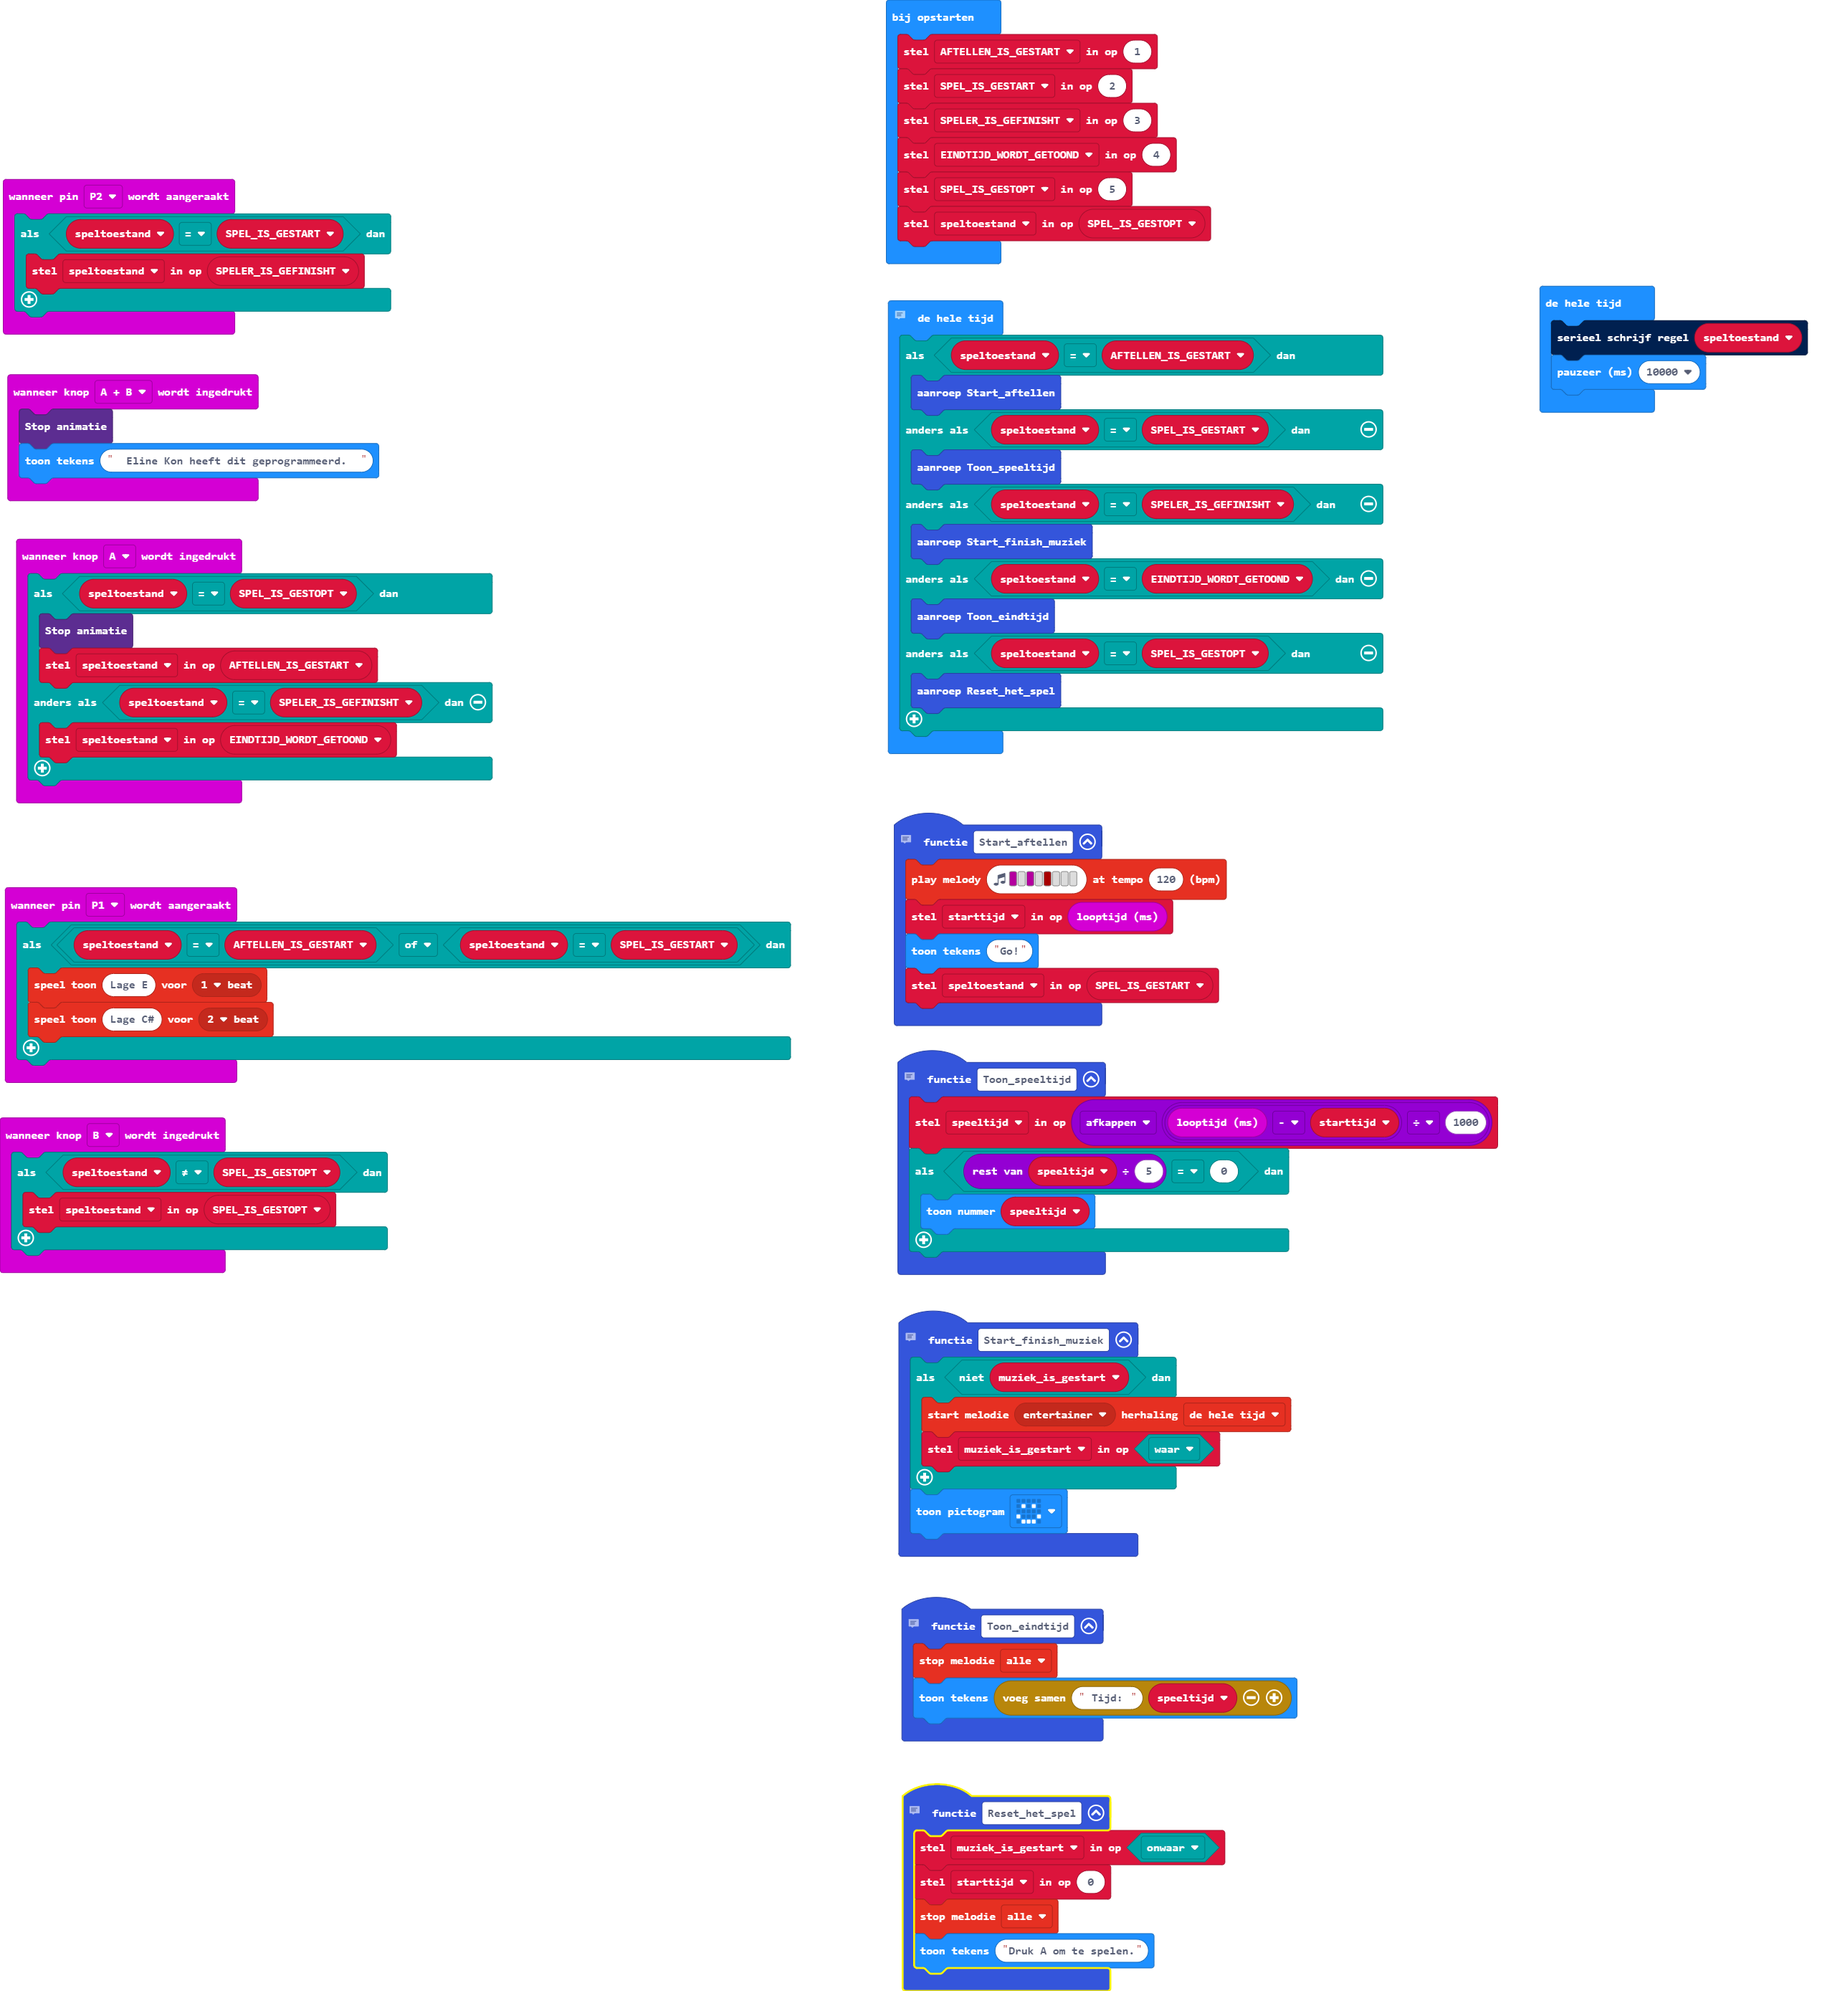
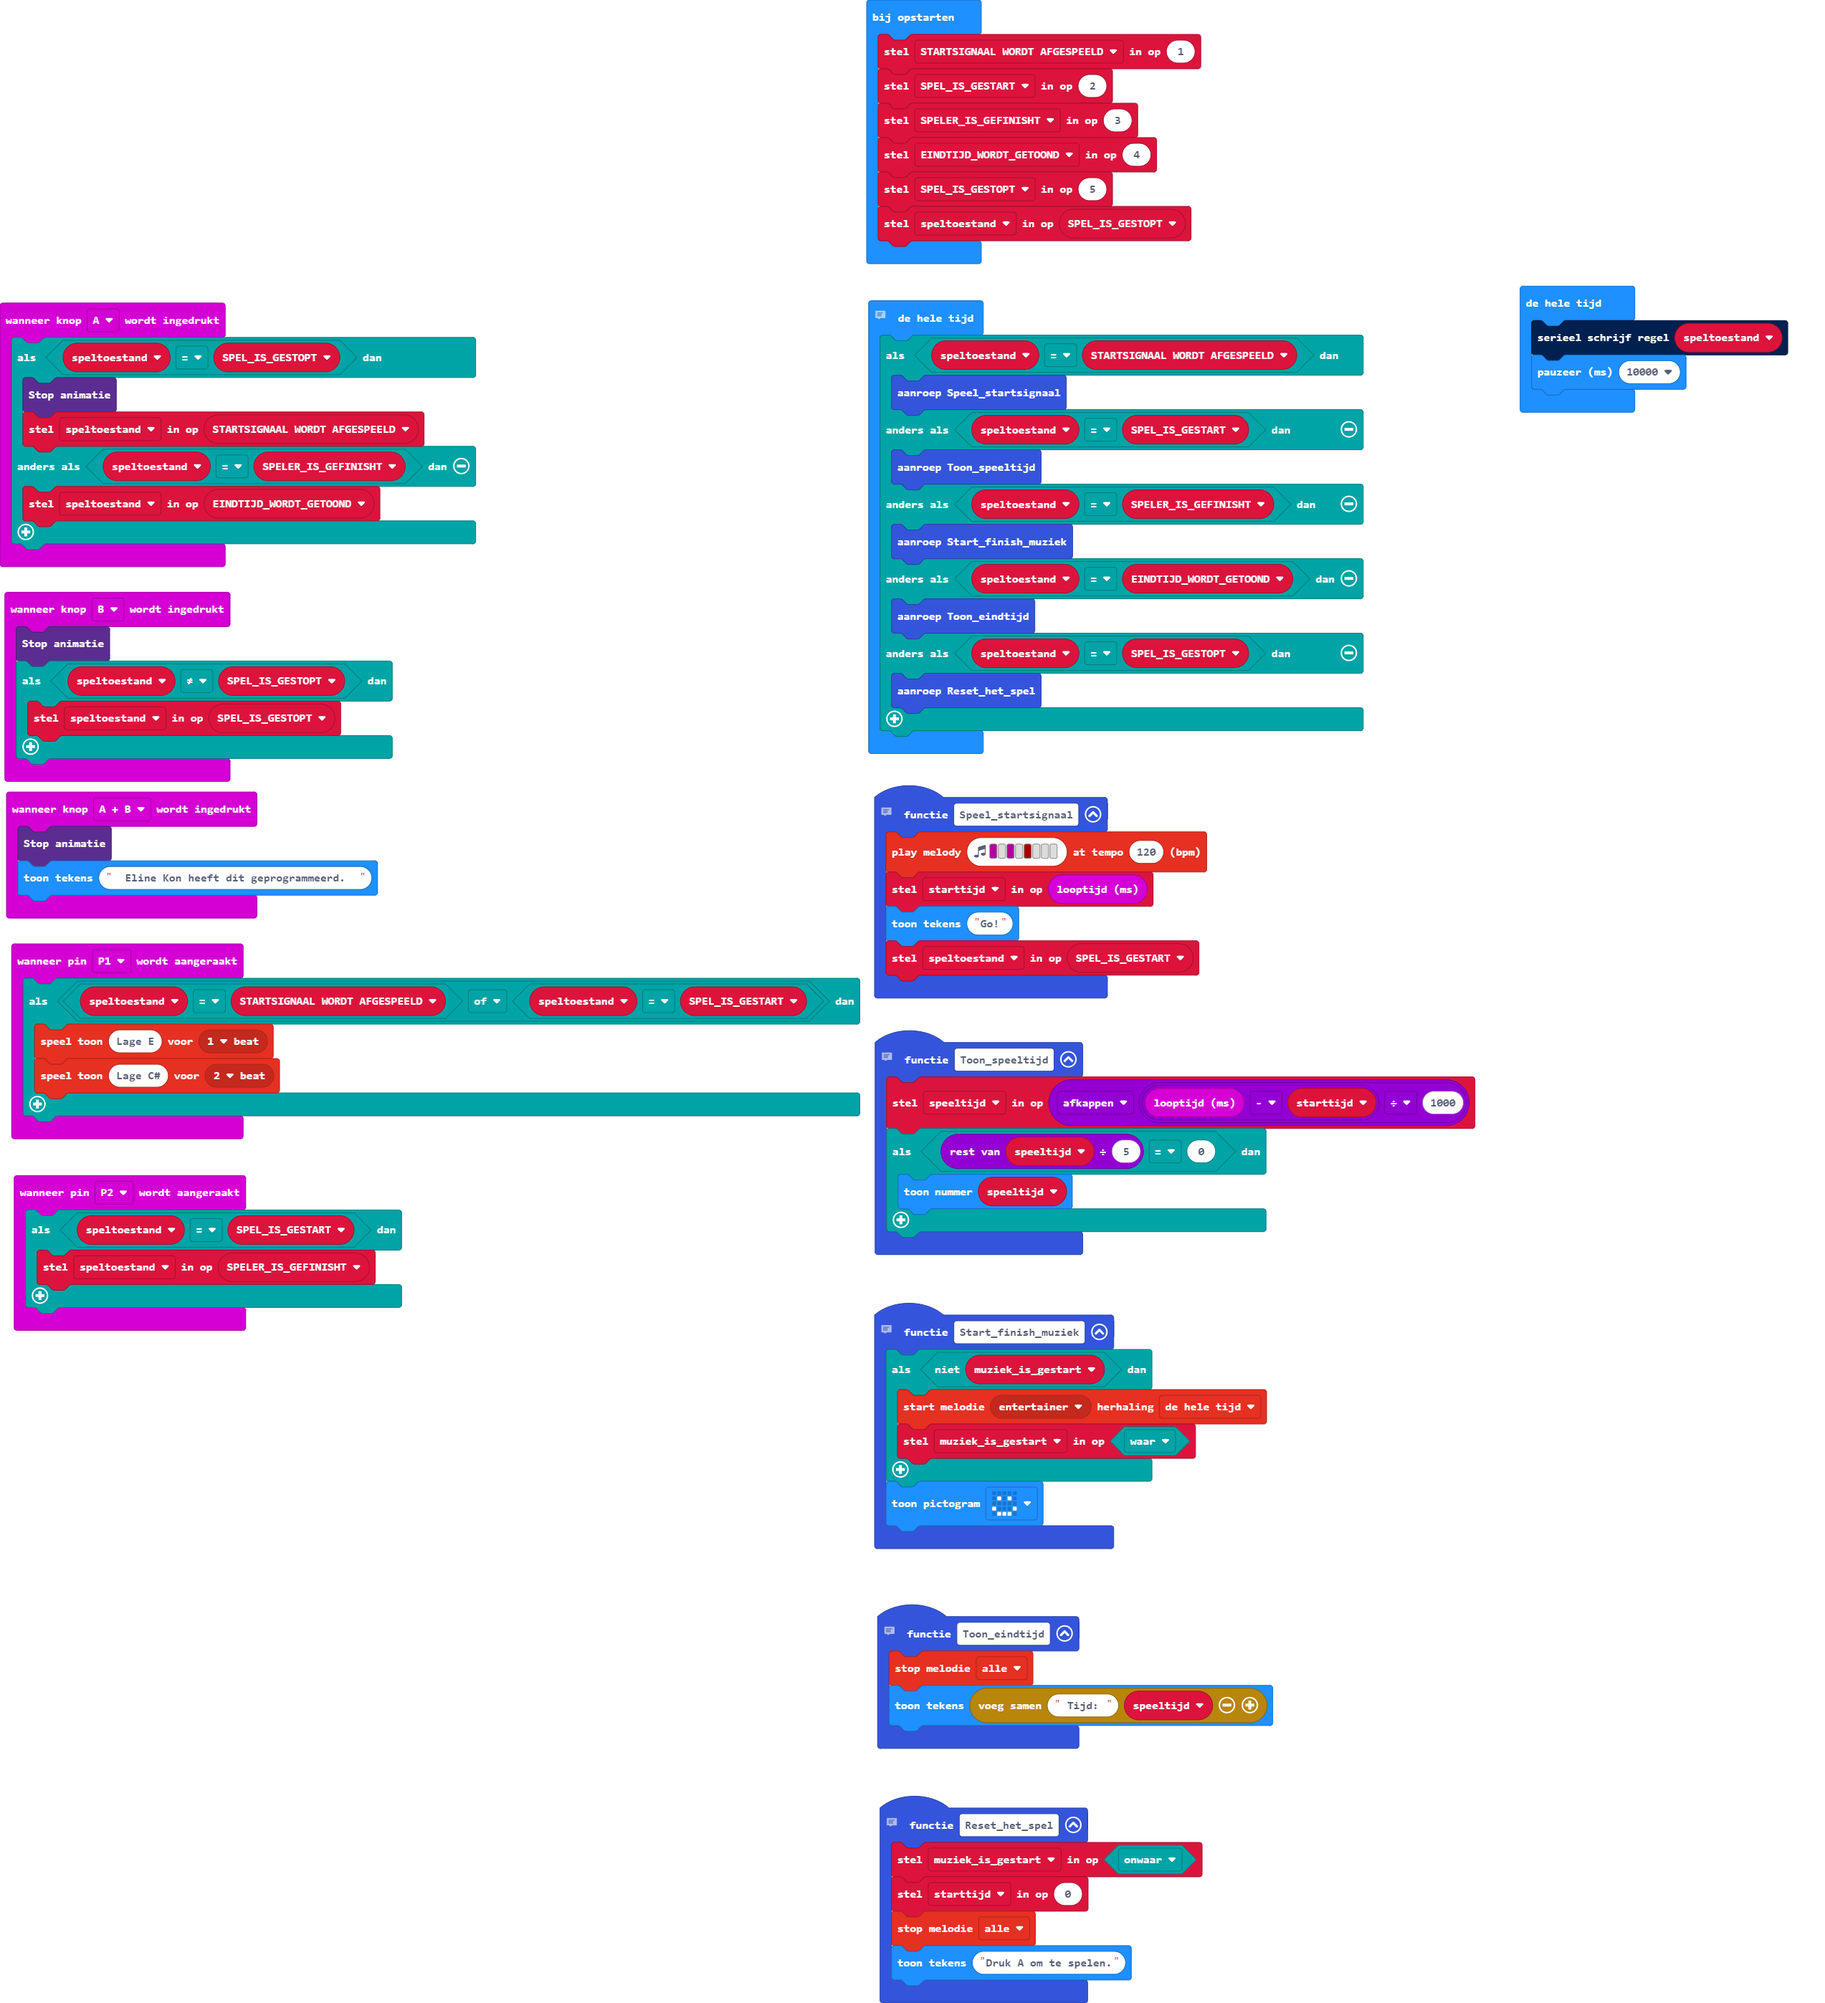
Update main.blocks, main.ts

Changed region(s): [[0.0, 0.0, 0.8378, 1.0], [0.8378, 0.1238, 0.9929, 0.2167]]

diff --git a/main.ts b/main.ts
@@ -31,11 +31,20 @@ function Toon_speeltijd () {
 input.onButtonPressed(Button.A, function () {
     if (speltoestand == SPEL_IS_GESTOPT) {
         led.stopAnimation()
-        speltoestand = AFTELLEN_IS_GESTART
+        speltoestand = STARTSIGNAAL_WORDT_AFGESPEELD
     } else if (speltoestand == SPELER_IS_GEFINISHT) {
         speltoestand = EINDTIJD_WORDT_GETOOND
     }
 })
+// - Speel het aftelgeluid af
+// 
+// - Onthoud de startijd om later de speltijd te berekenen
+function Speel_startsignaal () {
+    music.playMelody("C - C - C5 - - - ", 120)
+    starttijd = input.runningTime()
+    basic.showString("Go!")
+    speltoestand = SPEL_IS_GESTART
+}
 // - Stop de finish muziek
 // 
 // - Toon de eindtijd op het scherm
@@ -53,25 +62,17 @@ input.onButtonPressed(Button.AB, function () {
     basic.showString("  Eline Kon heeft dit geprogrammeerd.  ")
 })
 input.onButtonPressed(Button.B, function () {
+    led.stopAnimation()
     if (speltoestand != SPEL_IS_GESTOPT) {
         speltoestand = SPEL_IS_GESTOPT
     }
 })
 input.onPinPressed(TouchPin.P1, function () {
-    if (speltoestand == AFTELLEN_IS_GESTART || speltoestand == SPEL_IS_GESTART) {
+    if (speltoestand == STARTSIGNAAL_WORDT_AFGESPEELD || speltoestand == SPEL_IS_GESTART) {
         music.playTone(165, music.beat(BeatFraction.Whole))
         music.playTone(139, music.beat(BeatFraction.Double))
     }
 })
-// - Speel het aftelgeluid af
-// 
-// - Onthoud de startijd om later de speltijd te berekenen
-function Start_aftellen () {
-    music.playMelody("C - C - C5 - - - ", 120)
-    starttijd = input.runningTime()
-    basic.showString("Go!")
-    speltoestand = SPEL_IS_GESTART
-}
 let speeltijd = 0
 let starttijd = 0
 let muziek_is_gestart = false
@@ -80,8 +81,8 @@ let SPEL_IS_GESTOPT = 0
 let EINDTIJD_WORDT_GETOOND = 0
 let SPELER_IS_GEFINISHT = 0
 let SPEL_IS_GESTART = 0
-let AFTELLEN_IS_GESTART = 0
-AFTELLEN_IS_GESTART = 1
+let STARTSIGNAAL_WORDT_AFGESPEELD = 0
+STARTSIGNAAL_WORDT_AFGESPEELD = 1
 SPEL_IS_GESTART = 2
 SPELER_IS_GEFINISHT = 3
 EINDTIJD_WORDT_GETOOND = 4
@@ -89,8 +90,8 @@ SPEL_IS_GESTOPT = 5
 speltoestand = SPEL_IS_GESTOPT
 // Hoofdprogramma
 basic.forever(function () {
-    if (speltoestand == AFTELLEN_IS_GESTART) {
-        Start_aftellen()
+    if (speltoestand == STARTSIGNAAL_WORDT_AFGESPEELD) {
+        Speel_startsignaal()
     } else if (speltoestand == SPEL_IS_GESTART) {
         Toon_speeltijd()
     } else if (speltoestand == SPELER_IS_GEFINISHT) {
